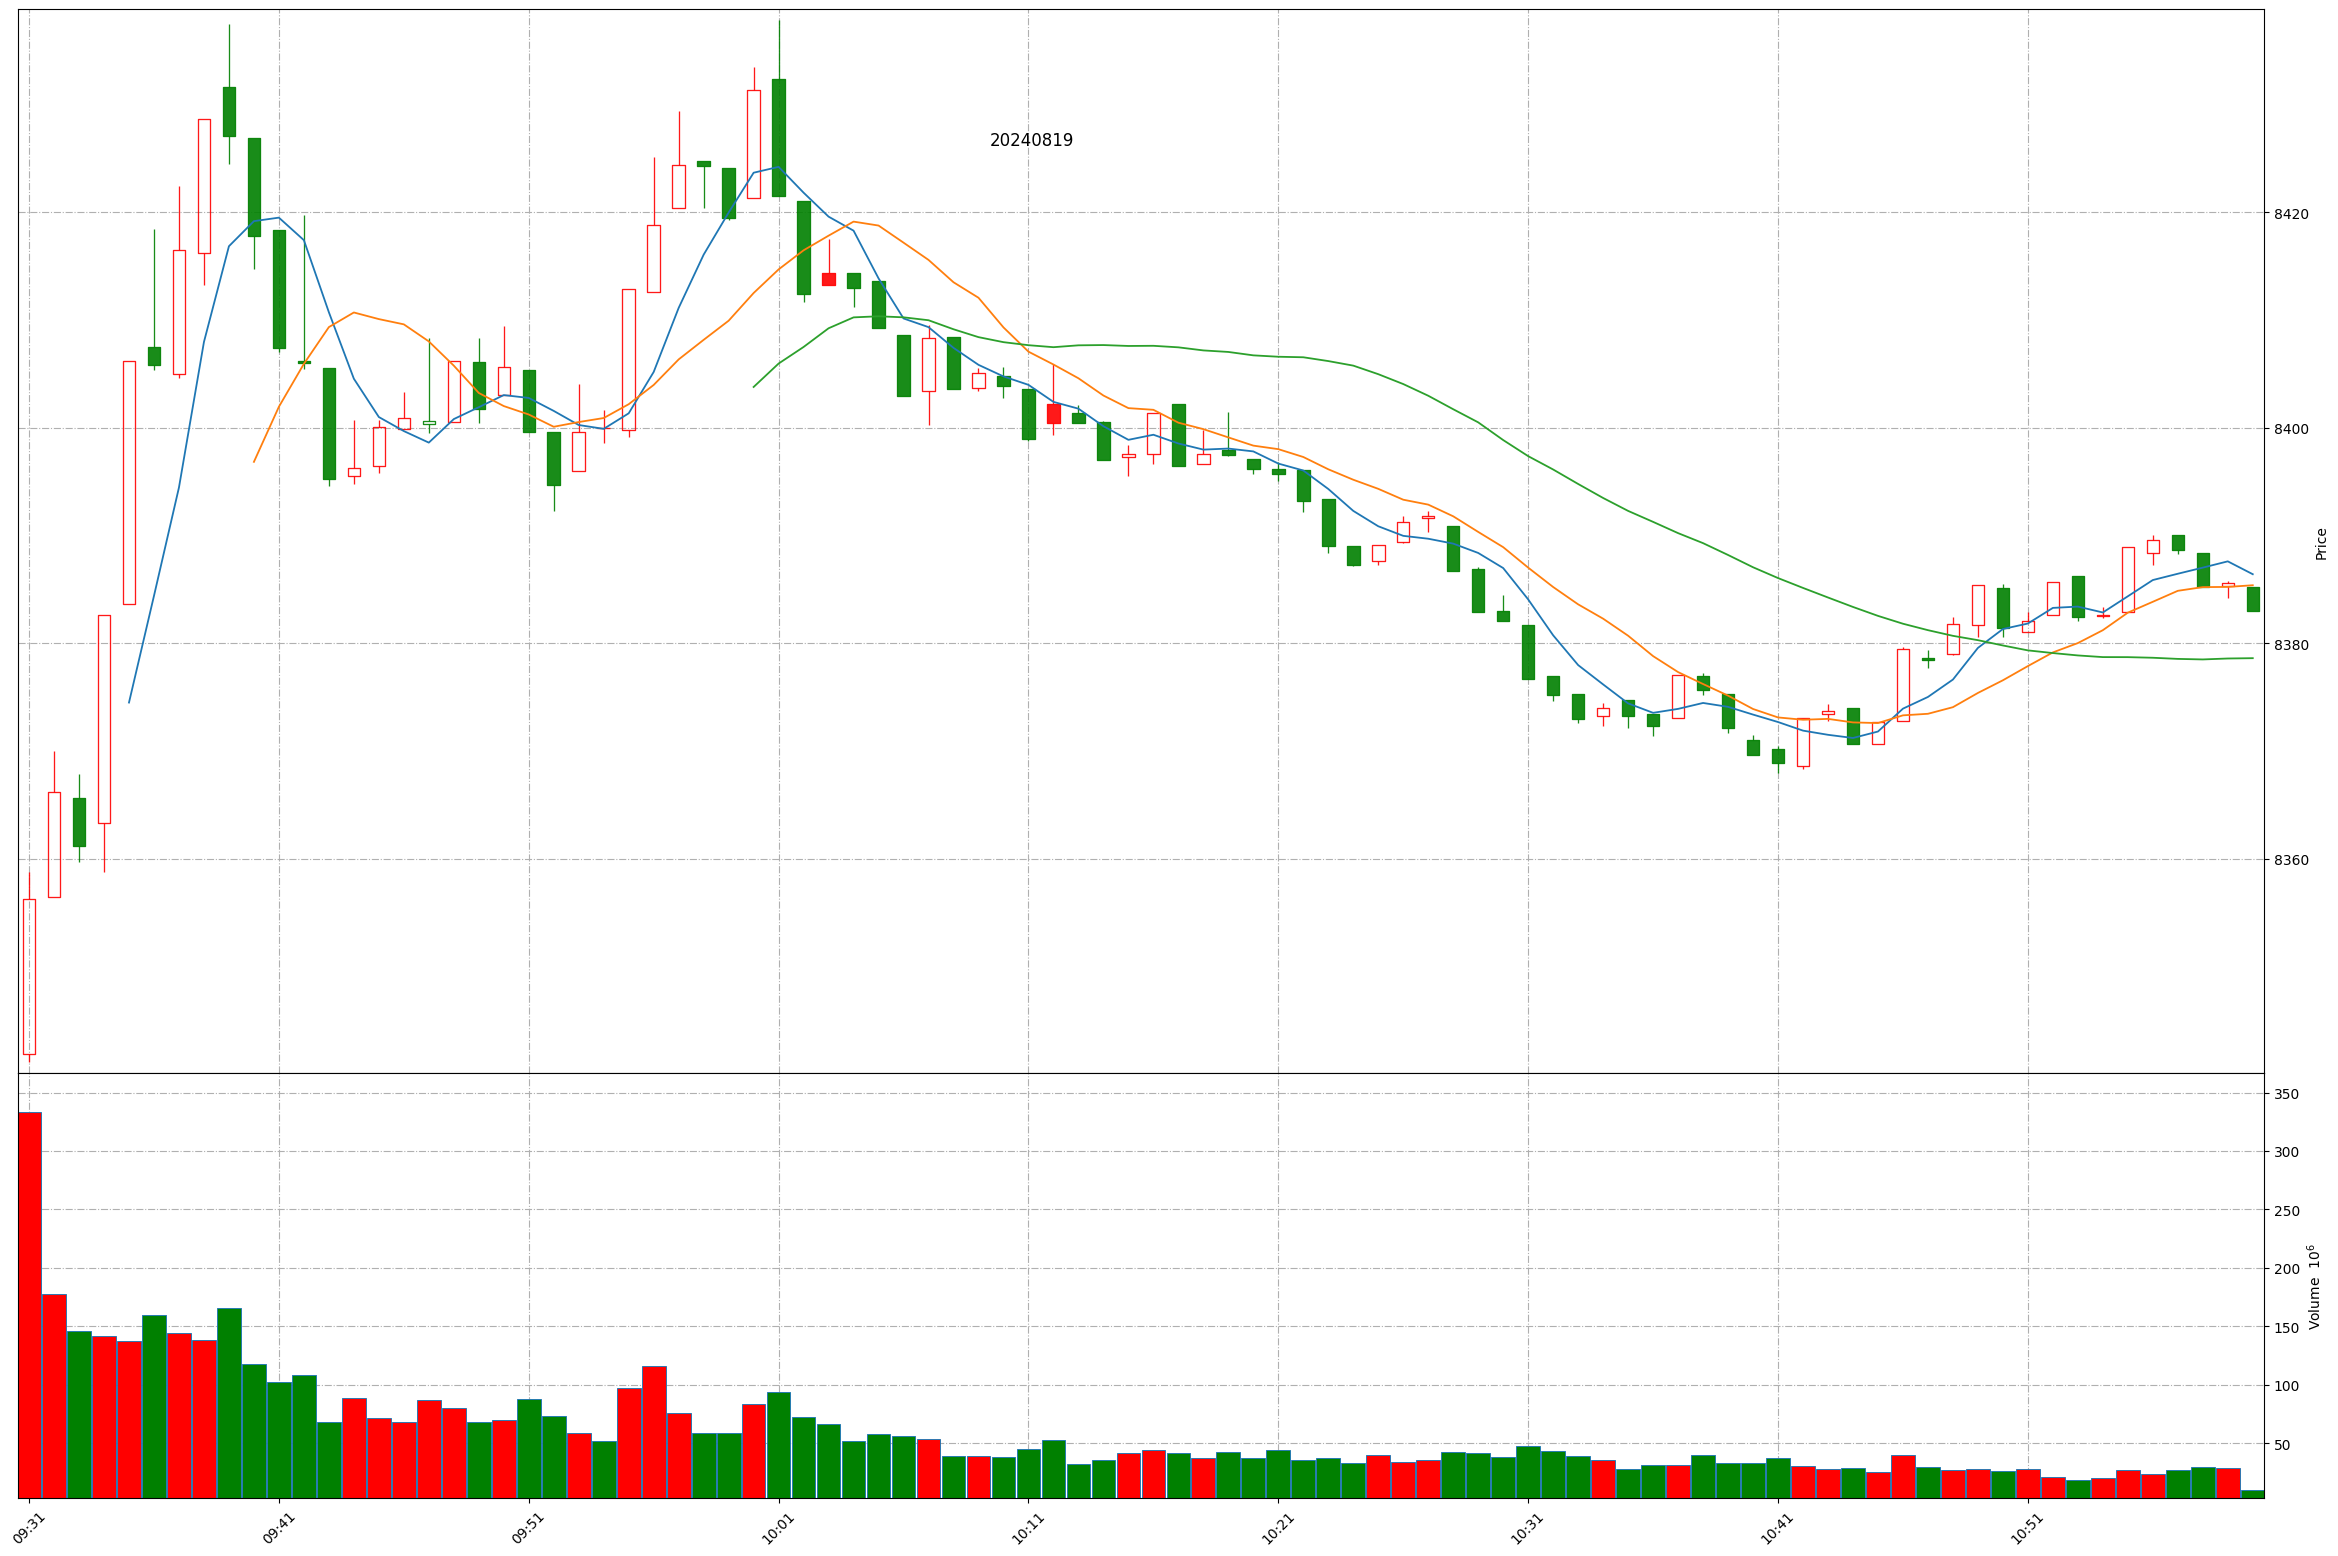
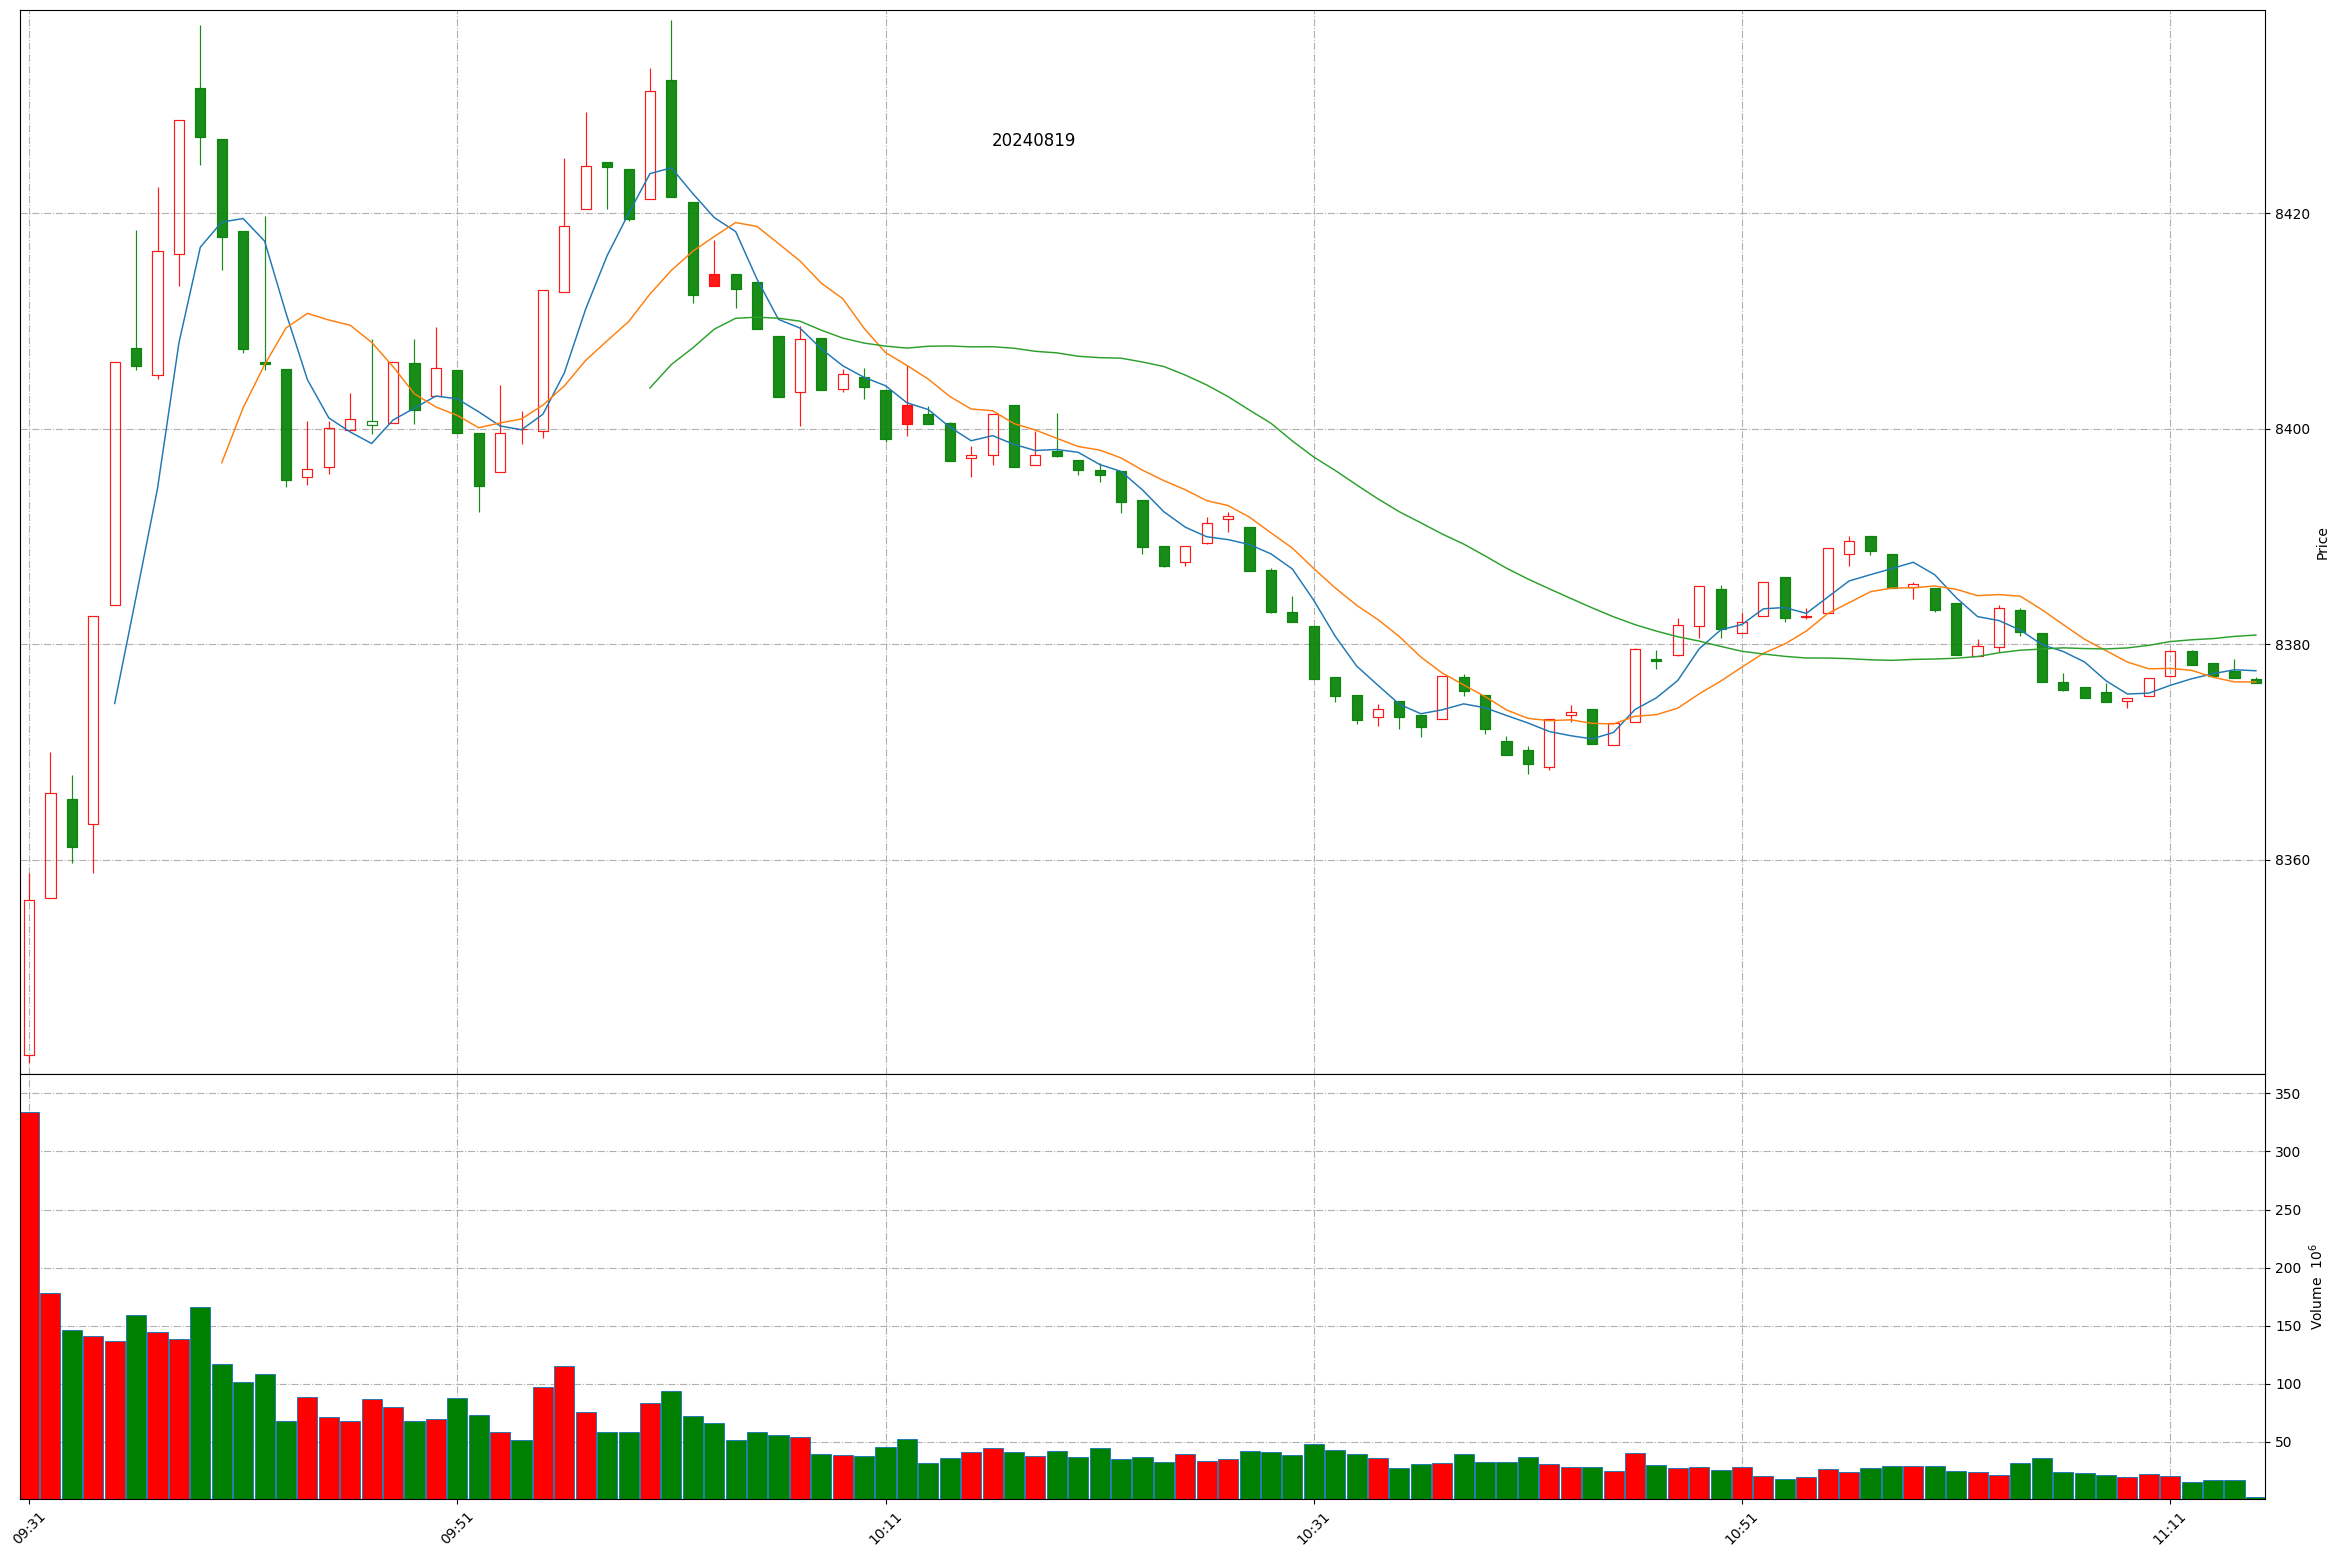
Github action update at 2024-08-19 11:14:24.

diff --git a/README.md b/README.md
@@ -1,11 +1,11 @@
 
 # Daily-A-share-market-quotes 每日 A 股指数（5min 更新）- 20240819
 
-### 上证指数 20240819 10:59
+### 上证指数 20240819 11:14
 ![](./fig/2024/8/20240819-sh000001.png)
 
-### 深证成指 20240819 10:59
+### 深证成指 20240819 11:14
 ![](./fig/2024/8/20240819-sz399001.png)
 
-### 北证50 20240819 10:59
+### 北证50 20240819 11:14
 ![](./fig/2024/8/20240819-bj899050.png)
